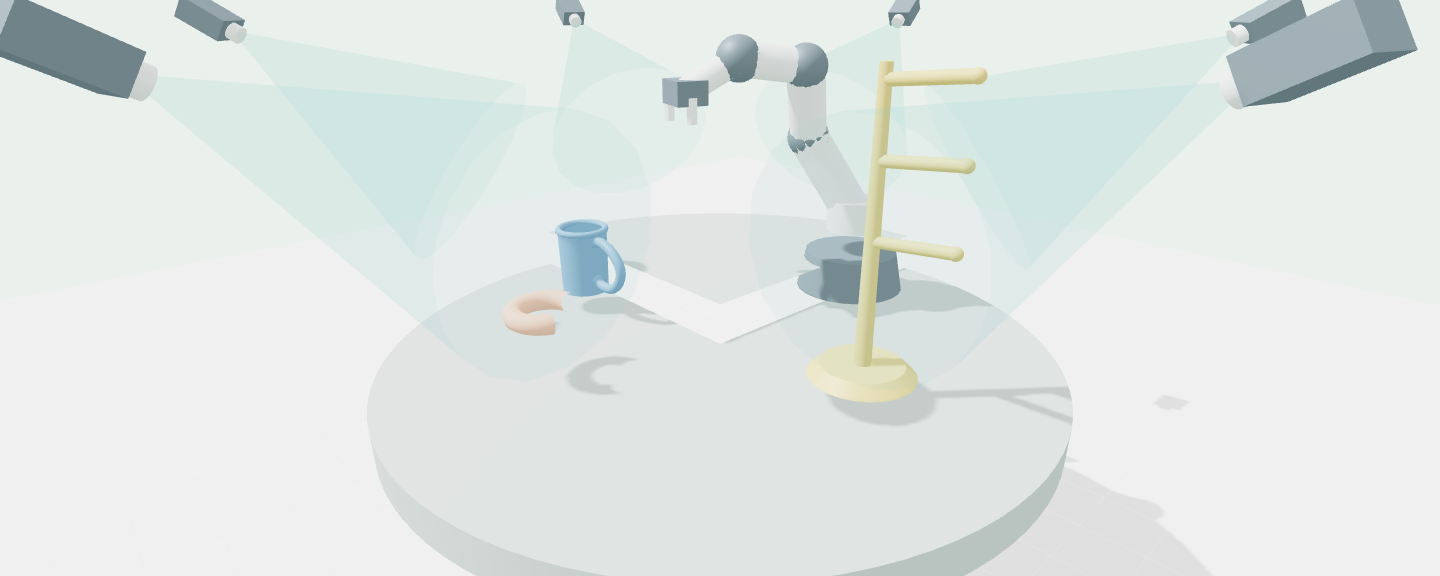
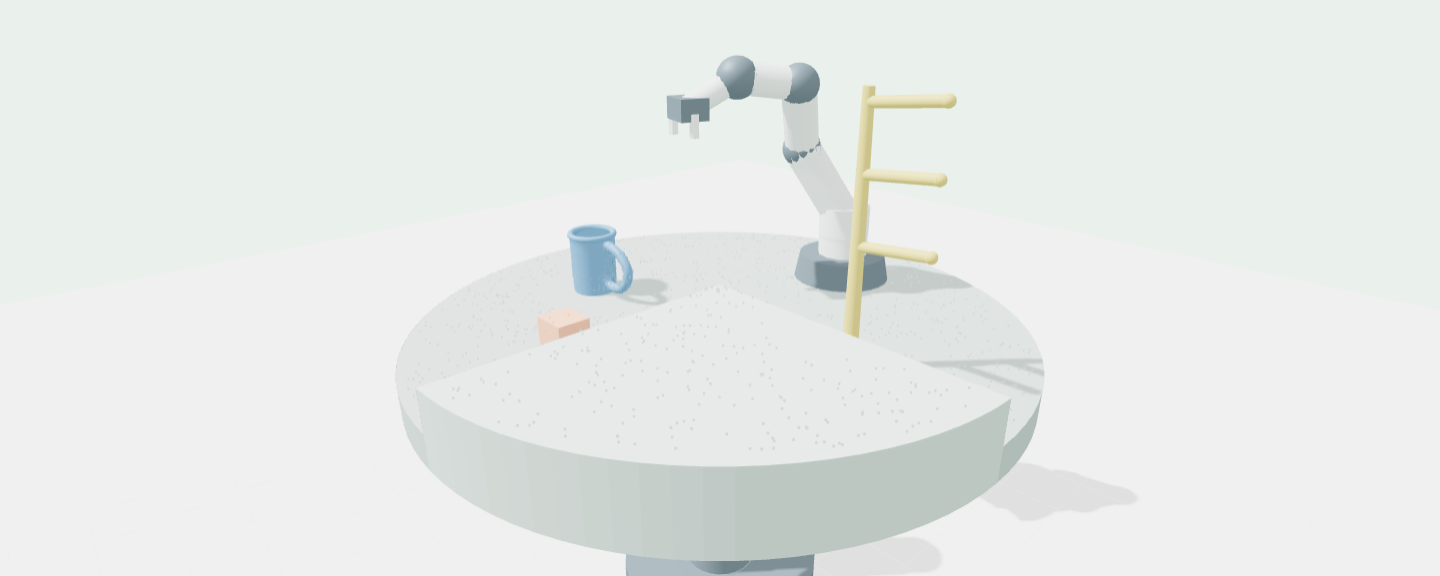
Improve RiEMann scene geometry and inference walkthrough

diff --git a/papers/riemann/app.js b/papers/riemann/app.js
@@ -45,6 +45,60 @@
       formula:'\\hat T=(\\hat R_o,\\hat t)\\in SE(3),\\qquad \\text{articulated task: }\\hat d\\in\\mathbb R^3',
       input:'t̂, R̂ₒ; articulated task +d̂',output:'Robot target action',ref:'§3.1 p.3; §4.2 p.6; Appendix A.5.1 p.15',active:8}
   ];
+  const visualStages=[
+    {lead:'Six RGB-D views describe the same workspace. Fusion produces one cloud containing the target, robot, and uneven table.',
+      items:[['cameras','Six RGB-D views','Color and depth from around the table'],['scene','Shared workspace','The raised table sector is 0.10 m higher'],['cloud','One point cloud P','Each dot has position and RGB']]},
+    {lead:'The network reads color as three scalar values at each point. 3D coordinates define where points are and which points are neighbors.',
+      items:[['cloud','Point xᵢ','A location in 3D space'],['rgb','RGB values cᵢ','Three numbers attached to xᵢ'],['scalars','Three type-0 channels','R, G, and B stay scalar under rotation']]},
+    {lead:'The saliency network compares nearby points through four local layers and assigns one score to every input point.',
+      items:[['neighbors','Local point neighbors','Connections use 3D distance'],['network','φ: four layers','SE(3)-Transformer message passing'],['scores','Saliency scores','Brighter dots matter more for the coarse position']]},
+    {lead:'High saliency points pull the weighted center toward the task. A radius-r₁ sphere around that center retains the local ROI.',
+      items:[['scores','Scores over P','Softmax converts scores to weights'],['roi','Coarse center + r₁','Points inside the sphere are selected'],['crop','ROI cloud','Later networks see only these points']]},
+    {lead:'The same ROI goes to two parallel networks: one predicts a scalar grasp-position score per point; the other predicts three vectors per point.',
+      items:[['crop','Shared ROI','Local points and RGB'],['scalar','ψ₁: position field','One type-0 value per point'],['vector','ψ₂: orientation fields','Three type-1 arrows per point']]},
+    {lead:'The position field becomes Softmax weights. Every ROI point contributes its coordinate; their weighted sum gives the predicted target position.',
+      items:[['scalar','Pointwise logits','A value from ψ₁ at every ROI point'],['weights','Weighted coordinates','Larger αᵢ contributes more'],['target','Predicted t̂','A 3D point near the grasp site']]},
+    {lead:'Near t̂, the r₂ neighborhood selects reliable orientation predictions. Average each of the three vector fields separately.',
+      items:[['local','r₂ around t̂','Keep nearby ROI points'],['vector','Vectors at each point','Three type-1 fields from ψ₂'],['pooled','Mean vectors v₁,v₂,v₃','Candidate orientation axes']]},
+    {lead:'The three averaged vectors may be skewed. IMGS makes them orthonormal so they form a valid rotation matrix.',
+      items:[['raw','Before IMGS','Three candidate axes need not be perpendicular'],['orthogonalize','Two IMGS rounds','Correct the axes and normalize them'],['rotation','Rotation R̂ₒ','Perpendicular, unit-length axes']]},
+    {lead:'Position and orientation specify an end-effector target pose. A separate planner executes the reach and manipulation.',
+      items:[['pose','Target pose T̂','Translation t̂ plus rotation R̂ₒ'],['planner','Motion planner','Computes a collision-aware route'],['action','Robot action','Reach, grasp, move, or turn']]}
+  ];
+  const visualDots=[[21,49],[29,35],[35,58],[43,43],[50,27],[54,55],[63,40],[70,61],[77,33],[83,51],[91,27],[100,45],[108,58],[118,37]];
+  const dot=(x,y,r,color)=>'<circle cx="'+x+'" cy="'+y+'" r="'+r+'" fill="'+color+'"/>';
+  const stroke=(x1,y1,x2,y2,color,width=2)=>'<line x1="'+x1+'" y1="'+y1+'" x2="'+x2+'" y2="'+y2+'" stroke="'+color+'" stroke-width="'+width+'" stroke-linecap="round"/>';
+  function visualGlyph(kind){
+    const blue='#315d91',green='#007e70',red='#b64e45',gray='#a8b6af',amber='#a77924';
+    const cloud=visualDots.map(([x,y],i)=>dot(x,y,3.2,i>3&&i<10?blue:gray)).join('');
+    const axes=stroke(69,58,104,48,red,3)+stroke(69,58,64,20,green,3)+stroke(69,58,42,69,blue,3)+dot(69,58,4,'#17262c');
+    let body='';
+    if(kind==='cameras')body='<path d="M45 62 Q70 72 95 62" fill="none" stroke="#788b85" stroke-width="5"/>'+dot(70,49,8,blue)+[[17,35],[34,15],[62,7],[91,7],[117,16],[124,38]].map(([x,y])=>'<rect x="'+x+'" y="'+y+'" width="10" height="8" rx="1" fill="#384851"/>'+stroke(x+5,y+8,70,49,green,1)).join('');
+    else if(kind==='scene')body='<ellipse cx="70" cy="65" rx="58" ry="12" fill="#788b85"/><path d="M39 59 v-22 h15 v22 M81 59 v-31 h8 v31" fill="none" stroke="#384851" stroke-width="7"/><rect x="28" y="33" width="19" height="22" rx="3" fill="'+blue+'"/><rect x="96" y="49" width="13" height="12" fill="#d97052"/>';
+    else if(kind==='cloud'||kind==='crop')body=cloud+(kind==='crop'?'<circle cx="70" cy="44" r="37" fill="none" stroke="'+green+'" stroke-width="2"/>':'');
+    else if(kind==='rgb')body=dot(48,42,7,blue)+['#c34d43','#2e9e70','#315d91'].map((c,i)=>'<rect x="'+(75+i*14)+'" y="30" width="10" height="25" rx="2" fill="'+c+'"/>').join('')+stroke(57,42,71,42,gray);
+    else if(kind==='scalars')body=['R','G','B'].map((v,i)=>'<circle cx="'+(39+i*31)+'" cy="41" r="13" fill="'+[red,green,blue][i]+'"/><text x="'+(39+i*31)+'" y="45" text-anchor="middle" fill="#fff" font-size="12" font-weight="700">'+v+'</text>').join('');
+    else if(kind==='neighbors')body=cloud+'<circle cx="70" cy="45" r="25" fill="none" stroke="'+green+'" stroke-dasharray="4 3" stroke-width="2"/>'+stroke(70,45,54,55,green)+stroke(70,45,83,51,green)+stroke(70,45,63,40,green)+dot(70,45,5,red);
+    else if(kind==='network')body=[20,48,76,104].map((x,i)=>'<rect x="'+x+'" y="29" width="18" height="30" rx="2" fill="'+(i===3?green:'#c9e4da')+'" stroke="'+green+'"/><text x="'+(x+9)+'" y="48" text-anchor="middle" fill="'+(i===3?'#fff':green)+'" font-size="11">'+(i+1)+'</text>').join('')+stroke(38,44,48,44,green)+stroke(66,44,76,44,green)+stroke(94,44,104,44,green);
+    else if(kind==='scores')body=visualDots.map(([x,y],i)=>dot(x,y,i>4&&i<10?5:2.5,i>4&&i<10?red:gray)).join('');
+    else if(kind==='roi'||kind==='local')body=cloud+'<circle cx="69" cy="45" r="'+(kind==='local'?21:36)+'" fill="'+green+'" fill-opacity=".09" stroke="'+green+'" stroke-width="2"/>'+dot(69,45,5,red);
+    else if(kind==='scalar')body=visualDots.slice(2,12).map(([x,y],i)=>dot(x,y,i>2&&i<7?6:3,i>2&&i<7?red:gray)).join('')+'<text x="105" y="18" fill="'+red+'" font-size="13">fₜ</text>';
+    else if(kind==='vector')body=[[40,58],[70,49],[101,59]].map(([x,y])=>dot(x,y,3,blue)+stroke(x,y,x+10,y-3,red,2)+stroke(x,y,x+2,y-13,green,2)+stroke(x,y,x-9,y-7,blue,2)).join('')+'<text x="90" y="19" fill="'+green+'" font-size="12">3 × f₁</text>';
+    else if(kind==='weights')body=visualDots.slice(2,12).map(([x,y],i)=>dot(x,y,i>2&&i<7?5:2.5,i>2&&i<7?red:gray)+stroke(x,y,71,46,amber,1)).join('')+dot(71,46,5,green);
+    else if(kind==='target')body='<path d="M43 60 V27 H77 V60 M77 33 Q108 22 106 46 Q102 66 77 55" fill="none" stroke="'+blue+'" stroke-width="5"/>'+dot(106,44,5,red)+stroke(97,44,115,44,red)+stroke(106,35,106,53,red);
+    else if(kind==='pooled'||kind==='raw'||kind==='rotation')body=kind==='raw'?stroke(69,58,108,46,amber,3)+stroke(69,58,78,19,amber,3)+stroke(69,58,37,45,amber,3)+dot(69,58,4,'#17262c'):axes+(kind==='rotation'?'<path d="M69 48 h10 v10" fill="none" stroke="#17262c" stroke-width="1.5"/>':'');
+    else if(kind==='orthogonalize')body=stroke(28,59,53,42,amber,3)+stroke(28,59,39,28,amber,3)+stroke(28,59,77,59,amber,3)+'<text x="70" y="51" fill="'+green+'" font-size="17" font-weight="700">→</text>'+stroke(103,59,124,59,red,3)+stroke(103,59,103,31,green,3);
+    else if(kind==='pose')body=axes+'<path d="M32 70 H115" stroke="'+gray+'" stroke-width="2" stroke-dasharray="4 4"/><text x="102" y="30" fill="'+red+'" font-size="12">t̂</text>';
+    else if(kind==='planner')body='<rect x="17" y="59" width="20" height="10" fill="#384851"/>'+stroke(27,59,47,32,'#c7d2cd',9)+stroke(47,32,75,41,'#c7d2cd',8)+stroke(75,41,104,24,'#c7d2cd',7)+'<path d="M106 26 Q121 38 107 57" fill="none" stroke="'+green+'" stroke-width="2" stroke-dasharray="4 3"/>';
+    else if(kind==='action')body='<path d="M33 60 V34 H53 V60 M53 40 Q77 36 72 52 Q68 62 53 56" fill="none" stroke="'+blue+'" stroke-width="4"/><path d="M64 29 Q86 16 107 37" fill="none" stroke="'+green+'" stroke-width="2" stroke-dasharray="4 3"/><path d="M109 60 V22 M109 33 h19" stroke="'+amber+'" stroke-width="5" fill="none"/>';
+    return '<svg viewBox="0 0 140 86" role="img" aria-hidden="true">'+body+'</svg>';
+  }
+  function renderVisual(){
+    const data=visualStages[step];
+    const root=el('stageVisual');
+    root.innerHTML='<div class="visual-head"><span class="eyebrow">What changes in this step</span><p>'+data.lead+'</p></div><div class="visual-flow">'+data.items.map(([kind,title,detail],i)=>'<div class="visual-item">'+visualGlyph(kind)+'<div><strong>'+title+'</strong><span>'+detail+'</span></div></div>'+(i<2?'<div class="visual-arrow" aria-hidden="true">→</div>':'')).join('')+'</div>';
+    root.hidden=false;
+  }
   const trainStages=[
     {short:'Demos',title:'Input demonstration clouds and target poses',desc:'Each iteration samples a batch of demonstrations. A demonstration supplies scene cloud P and end-effector target T=(R,t), which supervise the three networks. Real and simulated clouds are transformed into the end-effector coordinate frame.',formula:'\\mathcal D=\\{(P_i,T_i)\\}_{i=1}^{M},\\quad T_i=(R_i,t_i)',ref:'§3.1 p.3; Algorithm 1 p.12; Appendix A.5.2, A.6.1',nodes:['sample']},
     {short:'φ forward',title:'Four-layer full-scene φ forward pass',desc:'Three RGB type-0 input fields and the coordinate graph enter φ. Its four local SE(3)-Transformer layers produce pointwise saliency scalars; Softmax yields a coarse position. The diagram shows four backbone blocks because the paper does not specify per-layer tensor widths.',formula:'f_s=\\phi(P),\\qquad \\tilde t=\\sum_{x_i\\in P}\\operatorname{softmax}(f_s)_i x_i',ref:'§§4.1–4.2 pp.4–5; Table 3 p.14',nodes:['sample','phi']},
@@ -73,7 +127,7 @@
   function showPoint(p){
     const out=el('pointReadout');
     if(!p){out.textContent='Click a point in the 3D cloud to inspect its position, ROI membership, and illustrative weight.';return}
-    const kind={target:'target',scene:'scene',distractor:'distractor'}[p.kind];
+    const kind={target:'target',scene:'scene',distractor:'distractor block'}[p.kind];
     out.innerHTML='<b>Point #'+p.id+' · '+kind+'</b><br>Position ('+p.x.toFixed(3)+', '+p.y.toFixed(3)+', '+p.z.toFixed(3)+') m<br>Illustrative saliency '+p.score.toFixed(2)+' · ROI '+(p.roi?'inside':'outside')+' · r₂ '+(p.pool?'inside':'outside')+'<br>Illustrative position weight '+p.weight.toFixed(5)+(p.radius?'<br>Within '+p.radius.toFixed(2)+' m message radius: '+p.neighbors+' neighbors · first type-1 axis ('+p.axis.map(x=>x.toFixed(2)).join(', ')+')':'');
   }
   function showAction(progress,label){
@@ -110,6 +164,7 @@
     typeset(el('detail'));
     const micro=['Cloud P','RGB/type-0','φ','B_ROI','ψ₁ / ψ₂','t̂','R̂','IMGS','T̂'];
     el('microFlow').innerHTML=micro.map((x,i)=>'<span'+(i===step?' class="active"':'')+'>'+x+'</span>').join('');
+    renderVisual();
     if(inferenceScene)inferenceScene.setStep(step);
     el('actionBar').hidden=step!==8;
   }

diff --git a/papers/riemann/scene3d.js b/papers/riemann/scene3d.js
@@ -62,20 +62,46 @@ window.Riemann3D = function Riemann3D(container, options) {
   scene.add(key);
   const floor = mesh(new T.PlaneGeometry(8,8),new T.MeshStandardMaterial({color:0xd8e3dc,roughness:1}),0,0,0);
   floor.rotation.x=-Math.PI/2;floor.receiveShadow=true;floor.castShadow=false;
-  // The paper describes a radius-0.75 m uneven ring table.
-  const heights=[0.72,0.82,0.72];
-  const angles=[Math.PI,Math.PI/2,Math.PI/2];
-  let begin=0;
-  heights.forEach((h,i)=>{
-    const top=mesh(new T.CylinderGeometry(.75,.75,.08,48,1,false,begin,angles[i]),mats.table,0,h-.04,0);
-    top.receiveShadow=true;begin+=angles[i];
-  });
-  cylinder(.075,.095,.66,mats.dark,0,.33,0);
+  // The paper specifies three sectors and a 0.10 m height difference.
+  const tableLow=.77, tableHigh=.87, tableRadius=.75;
+  const tableBottom=tableLow-.08,tableVertices=[],tableColors=[],tableSegments=96;
+  const tableShades={
+    low:new T.Color(0x788b85),high:new T.Color(0x97aaa0),
+    lowSide:new T.Color(0x687b74),highSide:new T.Color(0x7e9389)
+  };
+  const tablePoint=(a,y,r=tableRadius)=>[Math.sin(a)*r,y,Math.cos(a)*r];
+  const triangle=(a,b,c,shade)=>{
+    tableVertices.push(...a,...b,...c);
+    for(let j=0;j<3;j++)tableColors.push(shade.r,shade.g,shade.b);
+  };
+  const quad=(a,b,c,d,shade)=>{triangle(a,b,c,shade);triangle(a,c,d,shade)};
+  for(let i=0;i<tableSegments;i++){
+    const a=i*2*Math.PI/tableSegments,b=(i+1)*2*Math.PI/tableSegments;
+    const height=i<tableSegments/4?tableHigh:tableLow;
+    const topA=tablePoint(a,height),topB=tablePoint(b,height);
+    triangle([0,height,0],topA,topB,height===tableHigh?tableShades.high:tableShades.low);
+    quad(topA,tablePoint(a,tableBottom),tablePoint(b,tableBottom),topB,height===tableHigh?tableShades.highSide:tableShades.lowSide);
+    triangle([0,tableBottom,0],tablePoint(b,tableBottom),tablePoint(a,tableBottom),tableShades.lowSide);
+  }
+  for(const a of [0,Math.PI/2]){
+    quad([0,tableHigh,0],tablePoint(a,tableHigh),tablePoint(a,tableLow),[0,tableLow,0],tableShades.highSide);
+  }
+  const tableGeometry=new T.BufferGeometry();
+  tableGeometry.setAttribute('position',new T.Float32BufferAttribute(tableVertices,3));
+  tableGeometry.setAttribute('color',new T.Float32BufferAttribute(tableColors,3));
+  tableGeometry.computeVertexNormals();
+  mats.table.color.setHex(0xffffff);
+  mats.table.vertexColors=true;
+  mats.table.side=T.DoubleSide;
+  const tabletop=mesh(tableGeometry,mats.table,0,0,0);
+  tabletop.castShadow=false;
+  cylinder(.075,.095,tableLow-.08,mats.dark,0,(tableLow-.08)/2,0);
   cylinder(.27,.27,.035,mats.dark,0,.03,0);
   const grid=new T.GridHelper(3,16,0xbccac4,0xcbd8d1);grid.position.y=.008;grid.material.transparent=true;grid.material.opacity=.34;scene.add(grid);
   function makeRobot(){
     const base=[0,.79,-.48], shoulder=[0,.94,-.48], elbow=[-.09,1.14,-.39], fore=[-.04,1.32,-.31], wrist=[-.12,1.34,-.17], tip=[-.18,1.27,-.06];
     cylinder(.12,.14,.10,mats.dark,base[0],base[1],base[2]);
+    robotSegments.push(segment([0,.83,-.48],[0,.94,-.48],.069,mats.pale));
     cylinder(.07,.07,.08,mats.pale,shoulder[0],shoulder[1],shoulder[2]);
     for(const [a,b,r] of [[shoulder,elbow,.052],[elbow,fore,.047],[fore,wrist,.041],[wrist,tip,.032]])robotSegments.push(segment(a,b,r,mats.pale));
     for(const p of [elbow,fore,wrist])ball(.053,mats.dark,...p);
@@ -176,16 +202,14 @@ window.Riemann3D = function Riemann3D(container, options) {
       const a=seed(i+5500)*Math.PI*2,r=Math.sqrt(seed(i+6500))*.73;
       const x=Math.cos(a)*r,z=Math.sin(a)*r;
       if(Math.hypot(x+.4,z-.1)<.16||Math.hypot(x-.35,z)<.15)continue;
-      sample('scene',x,.764,z,0xa8b6af,-3);
+      sample('scene',x,(x>0&&z>0?tableHigh:tableLow)+.004,z,0xa8b6af,-3);
     }
     for(let i=0;i<160;i++){
-      const a=seed(i+7500)*Math.PI*2,r=Math.sqrt(seed(i+8500))*.04;
-      sample('distractor',-.12+Math.cos(a)*r,.78+seed(i+9500)*.12,.37+Math.sin(a)*r,0xd97052,-1);
+      sample('distractor',-.12+(seed(i+7500)-.5)*.09,tableLow+seed(i+9500)*.085,.37+(seed(i+8500)-.5)*.08,0xd97052,-1);
     }
   }
   const distractorSolid=new T.Group();scene.add(distractorSolid);
-  const d=mesh(new T.TorusGeometry(.065,.021,10,28,Math.PI*1.35),mats.distractor,-.13,.87,.37,distractorSolid);
-  d.rotation.x=Math.PI/2;d.rotation.z=.3;
+  box(.09,.085,.08,mats.distractor,-.12,tableLow+.0425,.37,distractorSolid);
   function worldPoint(p){return p.kind==='target'?p.local.clone().applyMatrix4(target.matrixWorld):p.local.clone()}
   function stableSoftmax(list,key){const max=Math.max(...list.map(key)),v=list.map(x=>Math.exp(key(x)-max)),s=v.reduce((a,b)=>a+b,0);return v.map(x=>x/s)}
   let shape=null;
@@ -273,7 +297,7 @@ window.Riemann3D = function Riemann3D(container, options) {
   function cameraPreset(){
     if(step===0){focus.set(0,.86,0);distance=2.35}
     else if(step<=2){focus.set(0,.86,0);distance=1.8}
-    else if(step<=7){focus.copy(derived.coarse).lerp(new T.Vector3(0,.84,0),.1);distance=1.02}
+    else if(step<=7){focus.copy(derived.coarse).lerp(new T.Vector3(0,.84,0),.36);distance=1.52}
     else{focus.set(0,.9,0);distance=1.9}
     viewCamera();
   }
@@ -378,7 +402,7 @@ window.Riemann3D = function Riemann3D(container, options) {
   }
   function setStep(n){step=n;refresh();cameraPreset()}
   function setMode(v){mode=v;refresh()}
-  function setTransform(degrees,pitchDegrees,translation){yaw=degrees*Math.PI/180;pitch=pitchDegrees*Math.PI/180;shift=translation;refresh();if(step>=3&&step<=7){focus.copy(derived.coarse).lerp(new T.Vector3(0,.84,0),.1);viewCamera()}}
+  function setTransform(degrees,pitchDegrees,translation){yaw=degrees*Math.PI/180;pitch=pitchDegrees*Math.PI/180;shift=translation;refresh();if(step>=3&&step<=7){focus.copy(derived.coarse).lerp(new T.Vector3(0,.84,0),.36);viewCamera()}}
   function setDistractor(show){options.hideDistractor=!show;refresh()}
   function setActionProgress(value){actionProgress=Math.max(0,Math.min(1,value));if(actionPlaying)actionStarted=performance.now()-actionProgress*4000;updateAction()}
   function setActionPlaying(playing){actionPlaying=playing;if(playing)actionStarted=performance.now()-actionProgress*4000}

diff --git a/papers/riemann/styles.css b/papers/riemann/styles.css
@@ -49,7 +49,7 @@ h3{font-size:14px;margin:0 0 5px}
 .step.done .step-num{color:var(--teal)}
 .step-num{font-size:10px;font-weight:700;color:#80908f}
 .step-title{display:block;font-size:12px;line-height:1.25;font-weight:700;margin-top:3px;overflow-wrap:anywhere}
-.world{position:relative;width:100%;height:min(64vh,690px);min-height:470px;background:#f0f5f2;overflow:hidden}
+.world{position:relative;width:100%;height:min(55vh,590px);min-height:430px;background:#f0f5f2;overflow:hidden}
 .world canvas{display:block;width:100%;height:100%;touch-action:none}
 .world-top,.world-bottom,.world-hint{position:absolute;z-index:2;pointer-events:none}
 .world-top{top:20px;left:24px;display:flex;flex-direction:column;gap:3px}
@@ -64,6 +64,18 @@ h3{font-size:14px;margin:0 0 5px}
 .swatch.target{background:#426d9d}.swatch.scene{background:#a8b6af}.swatch.distractor{background:#d97052}.swatch.region{background:#008477}
 .scene-error{position:absolute;inset:0;display:grid;place-items:center;background:#eef3f0;color:var(--red);font-size:13px;z-index:5}
 .scene-error[hidden]{display:none}
+.stage-visual{padding:16px 25px 20px;background:#fff;border-bottom:1px solid var(--line)}
+.stage-visual[hidden]{display:none}
+.visual-head{display:flex;align-items:baseline;gap:18px;margin-bottom:12px}
+.visual-head .eyebrow{flex:none;margin:0}
+.visual-head p{margin:0;color:#3e5156;font-size:12px;line-height:1.5}
+.visual-flow{display:flex;align-items:stretch;gap:8px}
+.visual-item{flex:1;min-width:0;display:flex;align-items:center;gap:10px;padding:8px 10px;border:1px solid #dce8e2;border-radius:4px;background:#f7faf8}
+.visual-item svg{display:block;flex:none;width:112px;height:70px}
+.visual-item strong,.visual-item span{display:block;line-height:1.35}
+.visual-item strong{font-size:12px}
+.visual-item span{font-size:11px;color:var(--muted);margin-top:4px}
+.visual-arrow{display:grid;place-items:center;flex:none;color:var(--teal);font-size:21px;font-weight:700}
 .action-bar{display:flex;align-items:center;gap:12px;padding:9px 24px;background:#e8f3ee;border-bottom:1px solid var(--line)}
 .action-bar[hidden]{display:none}
 .action-bar input{flex:1;min-width:100px;accent-color:var(--teal)}
@@ -75,7 +87,7 @@ h3{font-size:14px;margin:0 0 5px}
 .manipulation input[type=range]{flex:1;min-width:75px;accent-color:var(--teal)}
 .manipulation output{min-width:41px;color:var(--ink);text-align:right;font-variant-numeric:tabular-nums}
 .explain-grid{display:grid;grid-template-columns:minmax(0,1.6fr) minmax(290px,.7fr);border-bottom:1px solid var(--line);background:#fff}
-.step-explain,.step-side{padding:21px 25px}
+.step-explain,.step-side{padding:21px 25px;min-width:0}
 .step-side{border-left:1px solid var(--line)}
 .step-explain .kicker{color:var(--teal);font-size:11px;font-weight:700;text-transform:uppercase;margin-bottom:4px}
 .step-explain h2{font-size:20px;margin:0 0 8px}
@@ -141,6 +153,8 @@ h3{font-size:14px;margin:0 0 5px}
 .source-note{padding:12px 25px}
 .footer{border-top:1px solid var(--line);color:var(--muted);font-size:11px;padding:15px 25px 25px}
 @media(max-width:1050px){
+  .visual-item{display:block;text-align:center}
+  .visual-item svg{margin:auto}
   .workflow{grid-template-columns:repeat(5,minmax(0,1fr))}
   .step:nth-child(5){border-right:0}
   .explain-grid{grid-template-columns:1fr}
@@ -177,6 +191,13 @@ h3{font-size:14px;margin:0 0 5px}
   .legend{gap:5px;padding:5px;font-size:10px}
   .legend span:nth-child(3){display:none}
   .world-bottom .segmented button{font-size:10px;padding:4px 6px}
+  .stage-visual{padding:14px 15px}
+  .visual-head{display:block;margin-bottom:9px}
+  .visual-head p{margin-top:4px}
+  .visual-flow{display:block}
+  .visual-item{display:flex;text-align:left;min-height:76px;padding:3px 8px}
+  .visual-item svg{width:104px;height:66px;margin:0 8px 0 0}
+  .visual-arrow{height:17px;font-size:17px;line-height:17px;transform:rotate(90deg)}
   .manipulation{gap:8px}
   .manipulation label:not(.check){flex-basis:100%;min-width:0}
   .step-explain,.step-side{padding:17px 15px}

diff --git a/papers/riemann/index.html b/papers/riemann/index.html
@@ -54,11 +54,12 @@
         <label class="control-label"><input id="loop" type="checkbox" checked>Loop</label>
       </div>
       <div class="workflow" id="workflow" aria-label="Inference stages"></div>
+      <section class="stage-visual" id="stageVisual" aria-live="polite" hidden></section>
       <div class="world" id="scene3d">
         <div class="world-top"><strong id="worldTitle">Multi-view scene capture</strong><span id="worldSub">Cameras and the full RGB point cloud</span></div>
         <div class="world-hint">Drag to orbit · Scroll to zoom · Click points to inspect local values</div>
         <div class="world-bottom">
-          <div class="legend"><span><i class="swatch target"></i>Target</span><span><i class="swatch scene"></i>Scene</span><span><i class="swatch distractor"></i>Distractor</span><span><i class="swatch region"></i>ROI / field</span></div>
+          <div class="legend"><span><i class="swatch target"></i>Target</span><span><i class="swatch scene"></i>Scene</span><span><i class="swatch distractor"></i>Distractor block</span><span><i class="swatch region"></i>ROI / field</span></div>
           <div class="segmented compact" role="group" aria-label="3D display mode">
             <button type="button" data-mode="solid" aria-pressed="false">Solid</button>
             <button type="button" data-mode="both" aria-pressed="true">Overlay</button>
@@ -77,7 +78,7 @@
         <label>Target yaw <input id="rotation" type="range" min="-70" max="70" value="0"><output id="rotationVal">0°</output></label>
         <label>Target pitch <input id="pitch" type="range" min="-35" max="35" value="0"><output id="pitchVal">0°</output></label>
         <label>Target shift <input id="translation" type="range" min="-20" max="20" value="0"><output id="translationVal">0 cm</output></label>
-        <label class="check"><input id="distractor" type="checkbox" checked>Distractor</label>
+        <label class="check"><input id="distractor" type="checkbox" checked>Distractor block</label>
       </div>
       <div class="explain-grid">
         <article class="step-explain" id="detail" aria-live="polite"></article>
